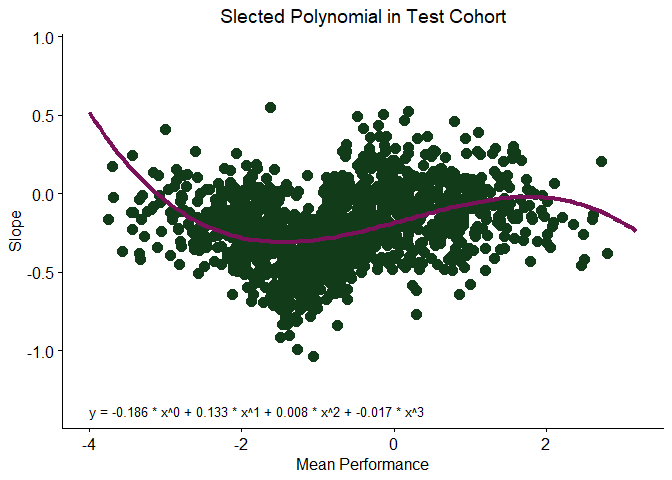
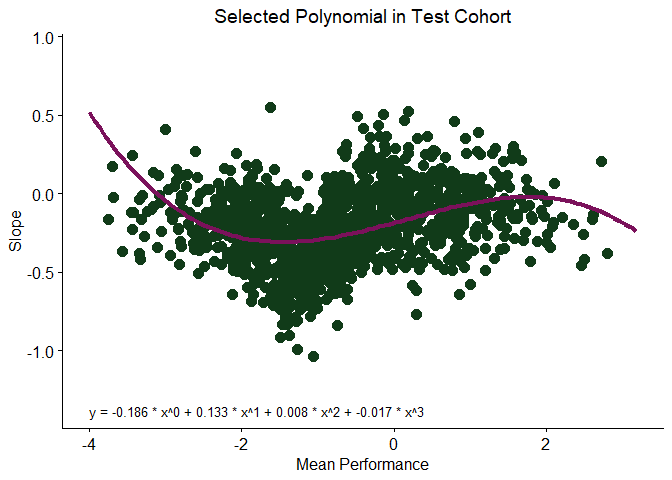
readme updates with figures

Changed region(s): [[0.3125, 0.0, 0.7812, 0.0625]]

diff --git a/README.md b/README.md
@@ -228,7 +228,7 @@ These outputs suggest that additional PVE plateaus at models of the 4th
 order or higher indicating that a 3rd order polynomial is appropriate
 for the example data set.
 
-# 2a Find Polynomial
+### 2a Find Polynomial
 
 Visual assessment of the scree plot above may not always readily discern
 an appropriate polynomial order and a data driven approach may be
@@ -295,7 +295,7 @@ have selected a higher order model. For example $x = 0.02$ would select
 the fifth order model since no lower order models have
 $PVE_{test} \ge 0.18$.
 
-# 3. Implement Polynomial
+### 3. Implement Polynomial
 
 After selecting a polynomial order (typically either by reviewing the
 scree plot output by `test_polynomial()` or by using `find_polynomial()`
@@ -312,7 +312,7 @@ list with the following:
     “performance_slope”, “performance_mean”, “predicted_slope”, and
     “residual”. If `floor_effects = TRUE`, an additional column
     “floor_effects” is appended with either “keep” or “remove”
-    reflecting whether the recorded should be removed based on the
+    reflecting whether the record should be removed based on the
     identified performance_mean threshold for floor effects
 3.  ***threshold*** — if floor_effects = TRUE, this records the
     threshold used for floor effect classifications
@@ -331,39 +331,42 @@ poly_out <-
 
 poly_out$model_formula
 #> performance_slope ~ poly(performance_mean, 3, raw = TRUE)
-#> <environment: 0x0000012c94abd508>
-head(poly_out$final_data)
+#> <environment: 0x0000014e971a2510>
+
+# temporarily shorten names in final_data so example can be printed without spilling over
+poly_out$final_data %>% set_names(gsub("performance_", "", colnames(poly_out$final_data))) %>% head
 #> # A tibble: 6 × 6
-#>      id performance_mean performance_slope predicted_slope residual
-#>   <int>            <dbl>             <dbl>           <dbl>    <dbl>
-#> 1     1            0.235            0.127           -0.134   0.261 
-#> 2     2           -0.331            0.0715          -0.207   0.278 
-#> 3     3           -0.312           -0.215           -0.204  -0.0105
-#> 4     4           -2.30             0.126           -0.255   0.381 
-#> 5     5           -0.171           -0.215           -0.186  -0.0289
-#> 6     6            0.140           -0.219           -0.146  -0.0725
-#> # ℹ 1 more variable: floor_effects <fct>
+#>      id   mean   slope predicted_slope residual floor_effects
+#>   <int>  <dbl>   <dbl>           <dbl>    <dbl> <fct>        
+#> 1     1  0.235  0.127           -0.134   0.261  keep         
+#> 2     2 -0.331  0.0715          -0.207   0.278  keep         
+#> 3     3 -0.312 -0.215           -0.204  -0.0105 keep         
+#> 4     4 -2.30   0.126           -0.255   0.381  remove       
+#> 5     5 -0.171 -0.215           -0.186  -0.0289 keep         
+#> 6     6  0.140 -0.219           -0.146  -0.0725 keep
+
 poly_out$threshold
 #> [1] -1.592723
 ```
 
 Importantly, a “residual” column has been added in the `final_data`
-tibble. **This is the performance adjusted measure rate of change that
-is the intended output from `longpoly`.**
+tibble. **This is the performance-adjusted measure of rate of change
+that is the intended output from `longpoly`.**
 
-Note also that the floor effects threshold has been identified at -1.59.
-The data were simulated to show floor effects when mean performance is
-at -1.5 ($\pm$ a noise factor) so this is a reasonable approximation of
-what was expected.
+*Note also that the floor effects threshold has been identified at
+-1.59. The example data were simulated to show floor effects when mean
+performance \< -1.5 (*$\pm$ *a noise factor) so this is a reasonable
+approximation of what was expected.*
 
-# 4. Plot Polynomial
+### 4. Plot Polynomial
 
-`plot_polyomial()` can be used to produce plots in the train and test
-data sets (using the id vectors produced by `test_polynomial()` or
-`find_polynomial` to define these), the polynomial in the whole cohort,
-and the whole cohort after assigning keep/remove status based on floor
-effects (use the threshold from `implement_polynomial()` for this).
-These plots are returned as `ggplot` objects in a named list.
+`plot_polyomial()` can be used to produce plots of a polynomial of a
+given order in the train and test data sets during model development
+(using the id vectors produced by `test_polynomial()` or
+`find_polynomial` to define these), in the whole cohort, and in the
+whole cohort with keep/remove status based on floor effects assigned
+(use the threshold from `implement_polynomial()` for this). These plots
+are returned as `ggplot` objects in a named list.
 
 ``` r
 plots <-
@@ -375,7 +378,7 @@ plots <-
     train_id = test_results$train_ids,
     test_id = test_results$test_ids,
     train_title = "Selected Polynomial in Train Cohort",
-    test_title = "Slected Polynomial in Test Cohort",
+    test_title = "Selected Polynomial in Test Cohort",
     keep_remove = TRUE,
     threshold = poly_out$threshold,
     threshold_linetype = "dashed",
@@ -385,22 +388,122 @@ plots <-
   )
 
 plots
-#> $whole_cohort
 ```
 
-<img src="man/figures/README-unnamed-chunk-10-1.png" width="60%" height="60%" />
+<img src="man/figures/README-unnamed-chunk-10-1.png" width="60%" height="60%" /><img src="man/figures/README-unnamed-chunk-10-2.png" width="60%" height="60%" /><img src="man/figures/README-unnamed-chunk-10-3.png" width="60%" height="60%" /><img src="man/figures/README-unnamed-chunk-10-4.png" width="60%" height="60%" />
 
-    #> 
-    #> $train
+### 5. Data Filtering
 
-<img src="man/figures/README-unnamed-chunk-10-2.png" width="60%" height="60%" />
+Simulated data offers the benefit of knowing what our results *should*
+look like. We expected a third order polynomial with a floor effect when
+mean performance $\approx -1.5$, as was seen. However, our final model
+also shows a prominent downward slope in its right tail that gives the
+impression that faster decline (more negative slopes) is expected when
+mean values exceed a value of approximately 2. This was not an effect
+that was simulated to exist – in fact, slopes were sampled from
+$N(-0.10, 0.2)$ for all mean values $\ge -0.5$ meaning that the
+polynomial should be flat in this region to reflect the “true” effect.
 
-    #> 
-    #> $test
+This observation reflects the (misleading) influence that scarce data
+points in the extremes of the distribution of mean performance can
+exert. Assessment of the whole cohort plot above suggests that, for data
+with mean performance \> 2, random sampling led to an over
+representation of more negative slopes. Review of the data in this range
+confirms this.
 
-<img src="man/figures/README-unnamed-chunk-10-3.png" width="60%" height="60%" />
+``` r
+example_data %>% filter(performance_mean > 2) %>% select(performance_slope) %>% summary
+#>  performance_slope
+#>  Min.   :-0.4833  
+#>  1st Qu.:-0.2842  
+#>  Median :-0.1766  
+#>  Mean   :-0.1760  
+#>  3rd Qu.:-0.1244  
+#>  Max.   : 0.2519
+```
 
-    #> 
-    #> $keep_remove
+If we sampled enough observations in this range, these summary
+statistics would instead reflect the distribution from which it was
+sampled. However, these mean values come from the Cognitively Unimpaired
+participants (see ‘A Note About Simulated Data’ above) and were sampled
+from $N(0,1)$. A score of 2 is therefore 2SD from the mean of its
+distribution and explains why data are scarce in this range.
 
-<img src="man/figures/README-unnamed-chunk-10-4.png" width="60%" height="60%" />
+The function `filter_slopes_and_mean()` filters data in the extreme
+ranges for mean values according to user-defined criteria. A window
+reflecting the “width” of the extreme range is defined and a minimum
+number of observations for that range is defined. If the actual number
+of observations is less than the specified minimum, data in the window
+are removed. This can be performed on the left or right tails (or both),
+and if data points are removed from either, the polynomial fitting
+process (i.e., Steps 2 to 4) should be repeated.
+
+Since the values in the right tail in the example data were simulated
+from a separate distribution ( $N(0,1)$ ) than those in the left (
+$N(-1.5, 0.75)$ ), I will perform filtering separately. For the right
+tail, I will set the window size to capture values above 2 (i.e., those
+more than 2SD above the distribution mean), and require at least 25 (out
+of 1000) observations in that range.
+
+``` r
+filtered_example_data <- filter_slopes_and_mean(
+  data = example_data,
+  window_size = max(example_data$performance_mean) - 2,
+  min_obs = 25,
+  max_filter = TRUE,
+  min_filter = FALSE
+)
+```
+
+I will now filter this data set for ranges in the left tail. For this, I
+will set the window size to capture any mean values less than - 3.25
+(i.e., those more than 2SD below the distribution mean) and again
+require at least 25 observations.
+
+``` r
+filtered_example_data <- filter_slopes_and_mean(
+  data = filtered_example_data,
+  window_size = min(filtered_example_data$performance_mean) + 3.25,
+  min_obs = 25,
+  max_filter = FALSE,
+  min_filter = TRUE
+)
+```
+
+For brevity, I will skip the `test_polynomial` and `find_polynomial`
+steps and instead implement a third order polynomial and filter for
+floor effects (but in practice, the chosen development steps should not
+be skipped).
+
+``` r
+poly_out_filtered <- 
+  implement_polynomial(
+    data = filtered_example_data,
+    order = 3,
+    floor_effects = TRUE,
+    floor_range = c(min(filtered_example_data$performance_mean), 0)
+  )
+
+plots_filtered <-
+  plot_polynomial(
+    data = poly_out_filtered$final_data,
+    order = 3,
+    whole_cohort_title = "Selected Polynomial in Whole Cohort",
+    whole_cohort_only = TRUE,
+    keep_remove = TRUE,
+    threshold = poly_out_filtered$threshold,
+    threshold_linetype = "dashed",
+    threshold_line_color = "#5f6a7a",
+    annotate_floor_thresh = TRUE,
+    legend_position = "bottom",
+  )
+
+plots_filtered$keep_remove
+```
+
+<img src="man/figures/README-unnamed-chunk-14-1.png" width="60%" height="60%" />
+
+This process has removed scarce data in both extremes in the
+distribution of mean values, and has resulted in an identified threshold
+for floor effects of -1.53 which is closer to the simulated effect of
+-1.5. The downward trend on the right tail is also now less prominent.
